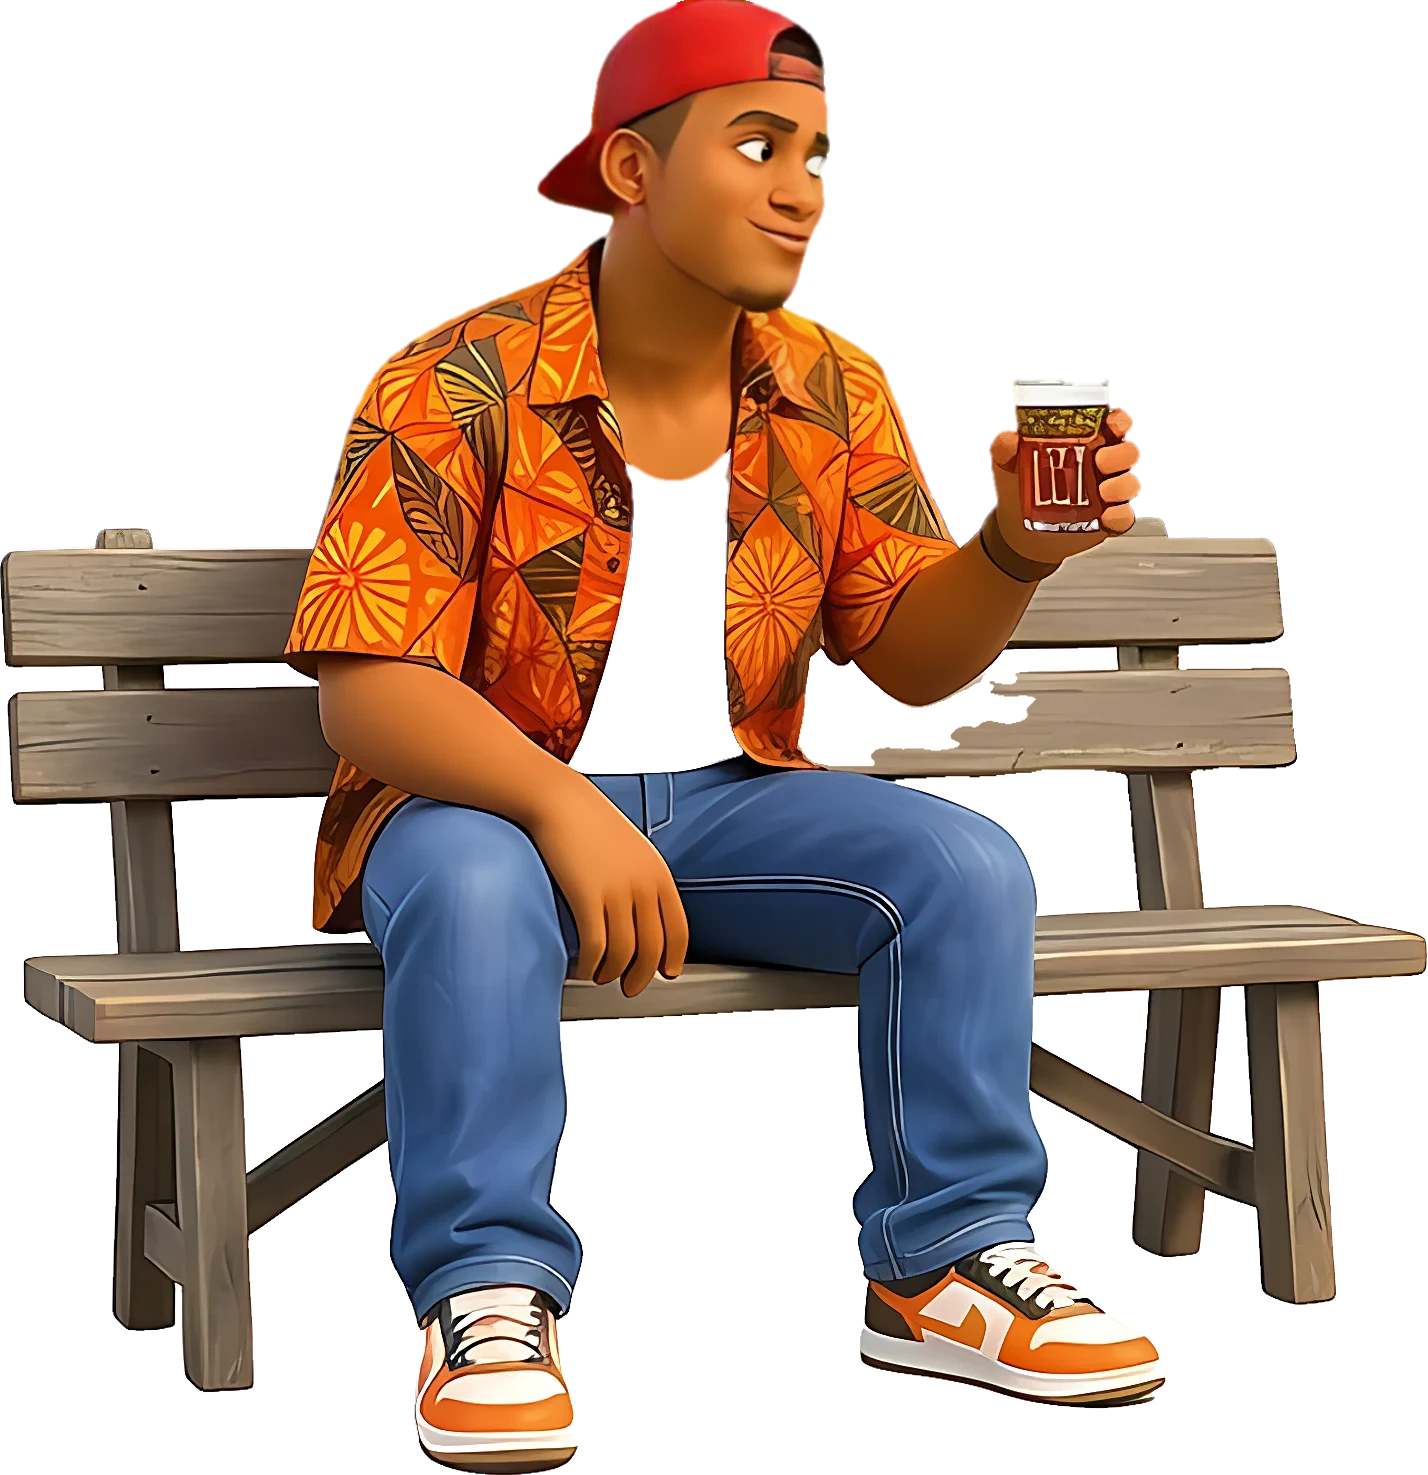
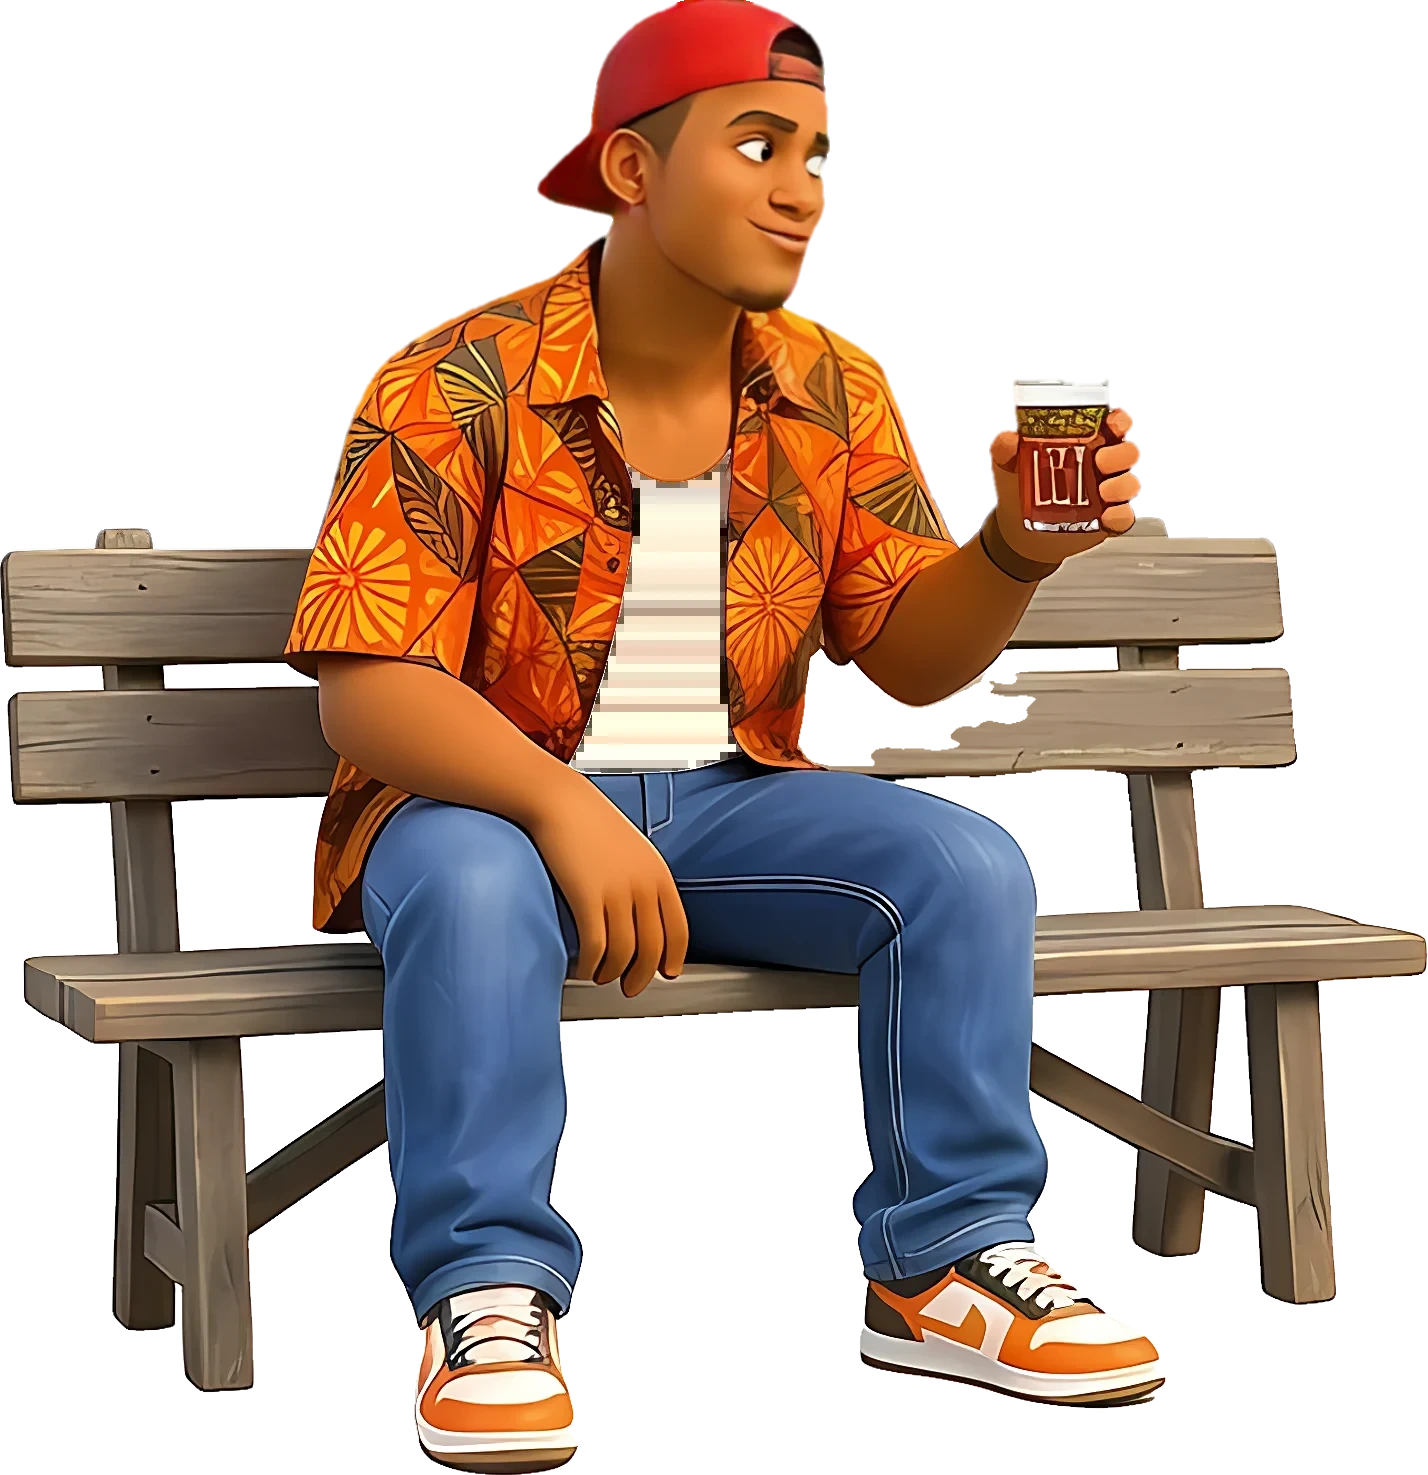
Trous dans les vêtements clairs (torse de Modibo) rebouchés par une règle (studio/trous.py), aussi à chaque nouvelle pose
Claude-Session: https://claude.ai/code/session_01TMGa197DNHV2kbcme1C2Mv

Changed region(s): [[0.4006, 0.3119, 0.5238, 0.5302]]

diff --git a/studio/trous.py b/studio/trous.py
@@ -1,0 +1,37 @@
+"""Vêtements clairs « troués » au détourage : un débardeur blanc, un col clair… pris pour du fond, on voit le décor à travers
+le personnage (ex. torse de Modibo). Règle : un trou entièrement entouré par le personnage, dont la couleur cachée est claire
+et un peu colorée (tissu, pas le gris neutre du fond), est rebouché avec sa couleur d'origine.
+Les vrais vides (entre les pieds du banc, sous le bras quand on y voit le fond gris) restent transparents.
+
+python studio/trous.py           → répare toutes les poses du catalogue (sauf objets), dit lesquelles ont changé"""
+import os, sys, json
+import numpy as np
+from PIL import Image
+from scipy import ndimage
+A = os.path.join(os.path.dirname(os.path.abspath(__file__)), 'assets')
+
+def boucher(im, mini=300):
+    """Renvoie (image réparée, nombre de pixels rebouchés)."""
+    a = np.array(im.convert('RGBA')); solid = a[:, :, 3] > 200
+    lab, n = ndimage.label(ndimage.binary_fill_holes(solid) & ~solid); fait = 0
+    aire = solid.sum(); xs = np.nonzero(solid.any(0))[0]; larg = (xs.max() - xs.min() + 1) if len(xs) else 1
+    for i, sl in enumerate(ndimage.find_objects(lab), 1):
+        m = lab == i; s = int(m.sum())
+        bh, bw = sl[0].stop - sl[0].start, sl[1].stop - sl[1].start
+        # un vrai « trou de tissu » est grand et ramassé (torse) ; les anneaux d'oreille et l'espace étroit entre le bras et le corps restent vides
+        if s < max(mini, 0.01 * aire) or bw < 0.08 * larg or s / (bh * bw) < 0.4: continue
+        rgb = a[m][:, :3].astype(int); mu = rgb.mean(0)
+        clair = (rgb.min(1) > 180).mean()
+        if clair > 0.5 and mu.max() - mu.min() > 12:   # tissu clair (blanc cassé, crème), pas le gris neutre d'un fond
+            a[m, 3] = 255; fait += s
+    return Image.fromarray(a), fait
+
+if __name__ == '__main__':
+    cat = json.load(open(f'{A}/catalog.json'))
+    for k, p in cat['poses'].items():
+        if p['char'] == 'OBJET' or '@' in k: continue
+        for suf in ('', '_o'):
+            f = f'{A}/poses/{k}{suf}.webp'
+            if not os.path.exists(f): continue
+            im, n = boucher(Image.open(f))
+            if n: im.save(f, quality=92, lossless=False); print(f'{k}{suf} : {n} pixels rebouchés')

diff --git a/studio/render.py b/studio/render.py
@@ -183,9 +183,8 @@ def draw(s, lt):
         return fr
     if k == 'insert':
         fr = background(s, lt, blur=4, zoom=0.1); obj = gfx.norm if False else s.get('object', '').lower()
-        hit = None
-        for key, p in POSES.items():
-            if p['frame'] == 'objet' and any(w in obj for w in p['tags']): hit = key; break
+        cands = [(sum(w in obj for w in p['tags']), key) for key, p in POSES.items() if p['frame'] == 'objet']   # l'objet dont le plus de mots correspondent
+        cands = [c for c in cands if c[0] > 0]; hit = max(cands)[1] if cands else None
         if hit: paste(fr, pose_img(hit, 1450), 540, 1100, 1.0, 1.0 + 0.04 * eo(prog(lt, 0, d)))
         elif 'telephone' in obj or 'téléphone' in obj: paste(fr, gfx.phone_with(gfx.app_screen([s.get('object', '')])), 540, 1100, 1.0, 1.1)
         else:

diff --git a/studio/poses_ia.py b/studio/poses_ia.py
@@ -117,6 +117,7 @@ def detourer(im):
     if n > 1:
         sz = ndimage.sum(np.ones_like(m), lab, range(1, n + 1)); m = np.where(ndimage.binary_dilation(lab == np.argmax(sz) + 1, iterations=3), m, 0)
     o = im.convert('RGBA'); o.putalpha(Image.fromarray(m.astype(np.uint8))); o = o.crop(o.getbbox())
+    import trous; o = trous.boucher(o)[0]   # vêtement clair pris pour du fond : rebouché
     return o.resize((max(1, int(o.width * 1600 / o.height)), 1600), Image.LANCZOS)
 def tete_x(im):
     a = np.asarray(im)[:, :, 3]; top = a[: int(a.shape[0] * 0.12)] > 128; xs = np.nonzero(top.any(0))[0]
